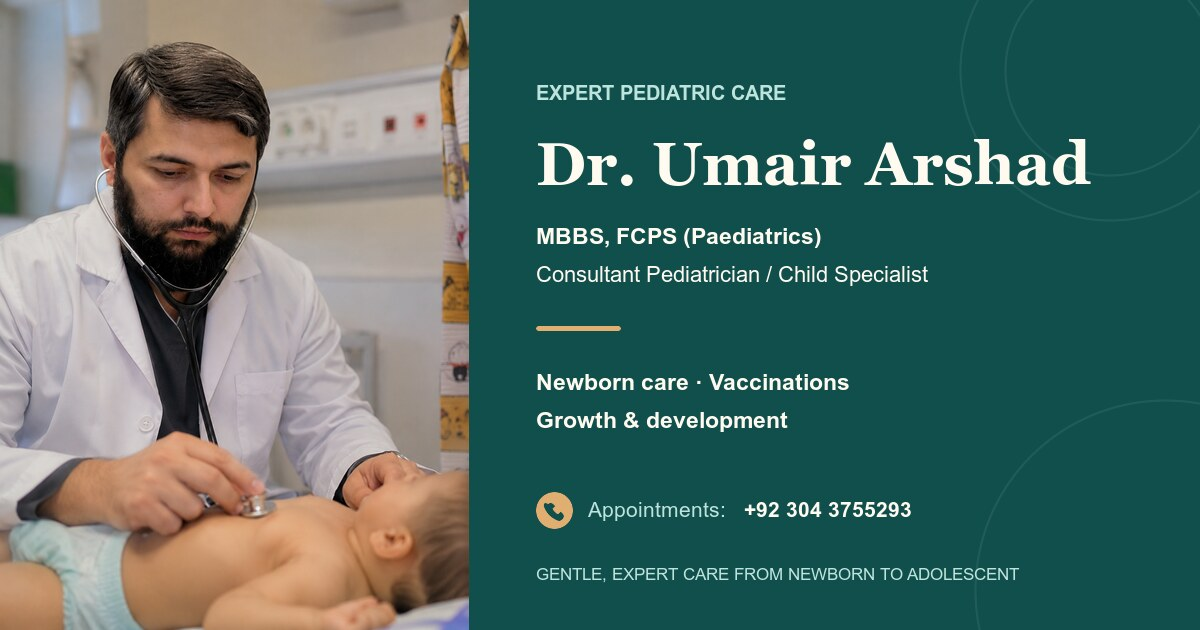
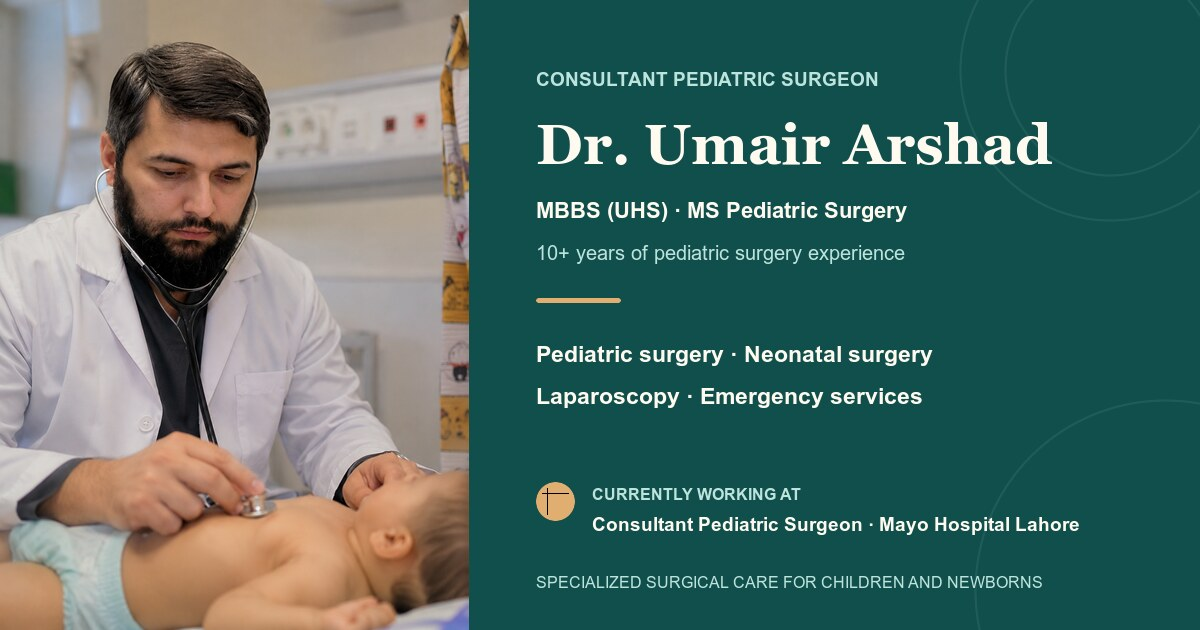
feat: update pediatric surgeon SEO and social preview

diff --git a/src/routes/services.tsx b/src/routes/services.tsx
@@ -5,17 +5,17 @@ import { useSiteData } from "@/lib/site-data";
 export const Route = createFileRoute("/services")({
   head: () => ({
     meta: [
-      { title: "Pediatric Services | Vaccination, Newborn & Allergy Care" },
+      { title: "Pediatric Surgery Services | Dr. Umair Arshad" },
       {
         name: "description",
         content:
-          "Full list of pediatric services: newborn care, immunization, growth monitoring, childhood infections, asthma and allergy management, and nutrition counselling.",
+          "Explore pediatric surgery services for newborns, children, and adolescents, including circumcision, hernia care, laparoscopy, and neonatal surgery.",
       },
-      { property: "og:title", content: "Pediatric Services for Children of All Ages" },
+      { property: "og:title", content: "Pediatric Surgery Services | Dr. Umair Arshad" },
       {
         property: "og:description",
         content:
-          "Newborn care, vaccinations, growth checks, allergy and asthma plans, and nutrition counselling.",
+          "Explore pediatric surgery services for newborns, children, and adolescents, including circumcision, hernia care, laparoscopy, and neonatal surgery.",
       },
     ],
   }),

diff --git a/src/routes/about.tsx b/src/routes/about.tsx
@@ -5,16 +5,17 @@ import { getVisibleHighlights, useSiteData } from "@/lib/site-data";
 export const Route = createFileRoute("/about")({
   head: () => ({
     meta: [
-      { title: "About the Doctor | Consultant Pediatrician" },
+      { title: "About Dr. Umair Arshad | Pediatric Surgeon" },
       {
         name: "description",
         content:
-          "Meet the consultant pediatrician: qualifications, clinical experience and the philosophy behind gentle, family-focused child healthcare.",
+          "Learn about Dr. Umair Arshad, a Consultant Pediatric Surgeon at Mayo Hospital Lahore with over 10 years of pediatric surgery experience.",
       },
-      { property: "og:title", content: "About the Doctor | Consultant Pediatrician" },
+      { property: "og:title", content: "About Dr. Umair Arshad | Pediatric Surgeon" },
       {
         property: "og:description",
-        content: "Qualifications, experience and care philosophy of a practising child specialist.",
+        content:
+          "Learn about Dr. Umair Arshad, a Consultant Pediatric Surgeon at Mayo Hospital Lahore with over 10 years of pediatric surgery experience.",
       },
     ],
   }),

diff --git a/src/routes/hospitals.tsx b/src/routes/hospitals.tsx
@@ -6,16 +6,20 @@ import { toTelHref } from "@/lib/contact-links";
 export const Route = createFileRoute("/hospitals")({
   head: () => ({
     meta: [
-      { title: "Hospitals & Clinic Timings | Child Specialist" },
+      { title: "Hospital Availability & Consultation Timings | Dr. Umair Arshad" },
       {
         name: "description",
         content:
-          "Find consultation hospitals, addresses, phone numbers and OPD timings for the child specialist across all practice locations.",
+          "View Dr. Umair Arshad’s Mayo Hospital availability and private pediatric surgery consultation timings in Lahore.",
       },
-      { property: "og:title", content: "Hospitals & Clinic Timings" },
+      {
+        property: "og:title",
+        content: "Hospital Availability & Consultation Timings | Dr. Umair Arshad",
+      },
       {
         property: "og:description",
-        content: "Addresses, phone numbers and OPD timings for every practice location.",
+        content:
+          "View Dr. Umair Arshad’s Mayo Hospital availability and private pediatric surgery consultation timings in Lahore.",
       },
     ],
   }),

diff --git a/src/routes/contact.tsx b/src/routes/contact.tsx
@@ -7,16 +7,20 @@ import { SocialLinks } from "@/components/site/SocialLinks";
 export const Route = createFileRoute("/contact")({
   head: () => ({
     meta: [
-      { title: "Contact & Appointments | Child Specialist Clinic" },
+      { title: "Contact Dr. Umair Arshad | Pediatric Surgery Consultations" },
       {
         name: "description",
         content:
-          "Call, email or message on WhatsApp to book a pediatric appointment. Clinic address, phone number and consultation hours.",
+          "Contact Dr. Umair Arshad for private pediatric surgery consultations and view hospital availability in Lahore.",
       },
-      { property: "og:title", content: "Contact & Appointments" },
+      {
+        property: "og:title",
+        content: "Contact Dr. Umair Arshad | Pediatric Surgery Consultations",
+      },
       {
         property: "og:description",
-        content: "Phone, email, WhatsApp and clinic address for booking a pediatric visit.",
+        content:
+          "Contact Dr. Umair Arshad for private pediatric surgery consultations and view hospital availability in Lahore.",
       },
     ],
   }),

diff --git a/src/lib/seo.ts b/src/lib/seo.ts
@@ -1,10 +1,11 @@
 export const SEO = {
   siteUrl: "https://zeshanashraf829.github.io/zeshanashraf829/",
   imageUrl: "https://zeshanashraf829.github.io/zeshanashraf829/social-preview-home.jpg",
-  imageAlt: "Dr. Umair Arshad — Consultant Pediatrician / Child Specialist",
+  imageAlt: "Dr. Umair Arshad — MBBS, MS Pediatric Surgery and Consultant Pediatric Surgeon",
   imageType: "image/jpeg",
   imageWidth: "1200",
   imageHeight: "630",
-  title: "Dr. Umair Arshad | Consultant Pediatrician / Child Specialist",
-  description: "Gentle, expert pediatric care from newborn to adolescent with Dr. Umair Arshad.",
+  title: "Dr. Umair Arshad | MBBS, MS Pediatric Surgery",
+  description:
+    "Consultant Pediatric Surgeon in Lahore with over 10 years of pediatric surgery experience and 16 years in the medical field.",
 } as const;

diff --git a/tests/social-preview.test.ts b/tests/social-preview.test.ts
@@ -39,10 +39,13 @@ test("keeps the approved doctor details in the editable banner source", async ()
     "utf8",
   );
 
+  assert.match(source, /CONSULTANT PEDIATRIC SURGEON/);
   assert.match(source, /Dr\. Umair Arshad/);
-  assert.match(source, /MBBS, FCPS \(Paediatrics\)/);
-  assert.match(source, /Consultant Pediatrician \/ Child Specialist/);
-  assert.match(source, /\+92 304 3755293/);
+  assert.match(source, /MBBS \(UHS\) · MS Pediatric Surgery/);
+  assert.match(source, /10\+ years of pediatric surgery experience/);
+  assert.match(source, /Mayo Hospital Lahore/);
+  assert.doesNotMatch(source, /FCPS/);
+  assert.doesNotMatch(source, /Child Specialist/);
 });
 
 test("uses SVG features that render reliably in the production exporter", async () => {

diff --git a/tests/branding.test.ts b/tests/branding.test.ts
@@ -56,5 +56,13 @@ test("uses absolute GitHub Pages URLs for social crawlers", () => {
   assert.equal(SEO.imageType, "image/jpeg");
   assert.equal(SEO.imageWidth, "1200");
   assert.equal(SEO.imageHeight, "630");
-  assert.match(SEO.title, /Dr\. Umair Arshad/);
+  assert.equal(SEO.title, "Dr. Umair Arshad | MBBS, MS Pediatric Surgery");
+  assert.equal(
+    SEO.description,
+    "Consultant Pediatric Surgeon in Lahore with over 10 years of pediatric surgery experience and 16 years in the medical field.",
+  );
+  assert.equal(
+    SEO.imageAlt,
+    "Dr. Umair Arshad — MBBS, MS Pediatric Surgery and Consultant Pediatric Surgeon",
+  );
 });

diff --git a/README.md b/README.md
@@ -1,6 +1,6 @@
-# Dr. Umair Arshad — Pediatric Clinic Website
+# Dr. Umair Arshad — Pediatric Surgeon Website
 
-A multi-page website for Dr. Umair Arshad, Consultant Pediatrician / Child Specialist. It includes home, about, services, hospitals, contact, and browser-local admin routes.
+A multi-page website for Dr. Umair Arshad, MBBS (UHS), MS Pediatric Surgery and Consultant Pediatric Surgeon. It includes home, about, services, hospitals, contact, and browser-local admin routes.
 
 ## Development
 
